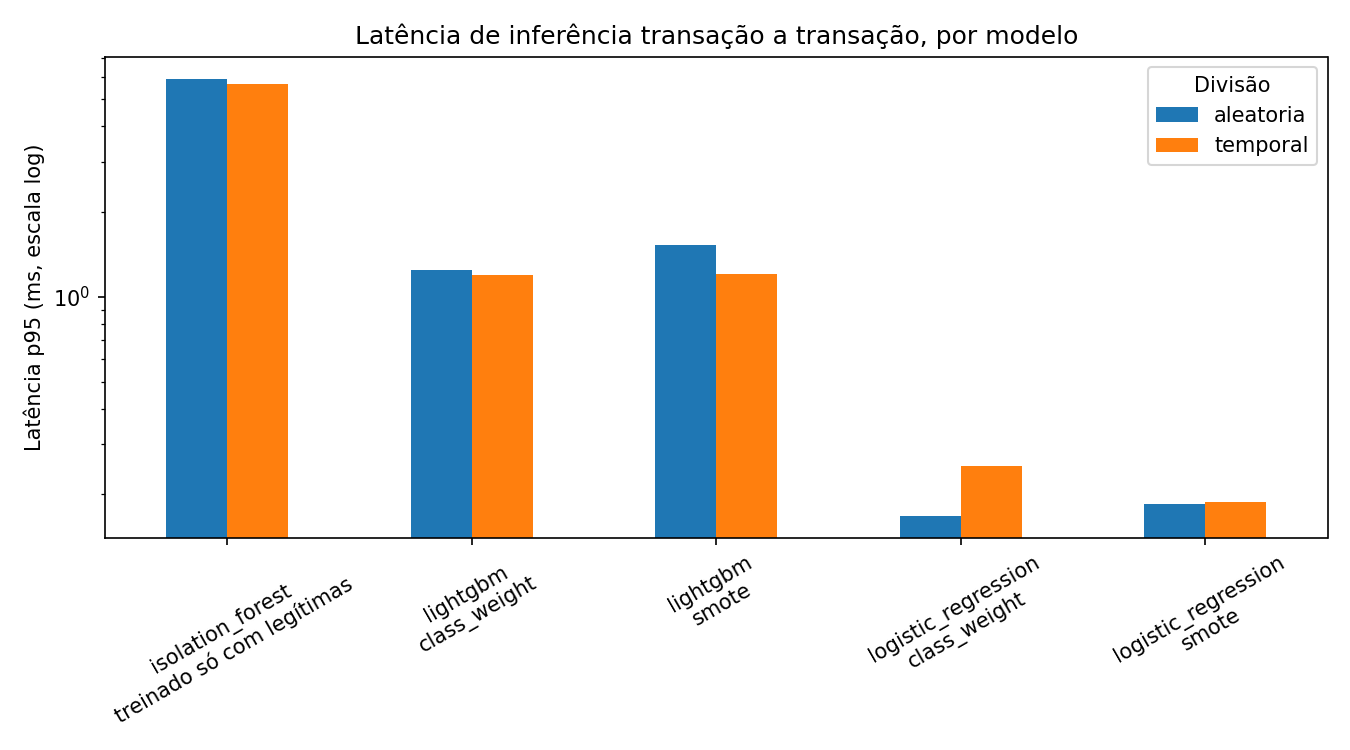
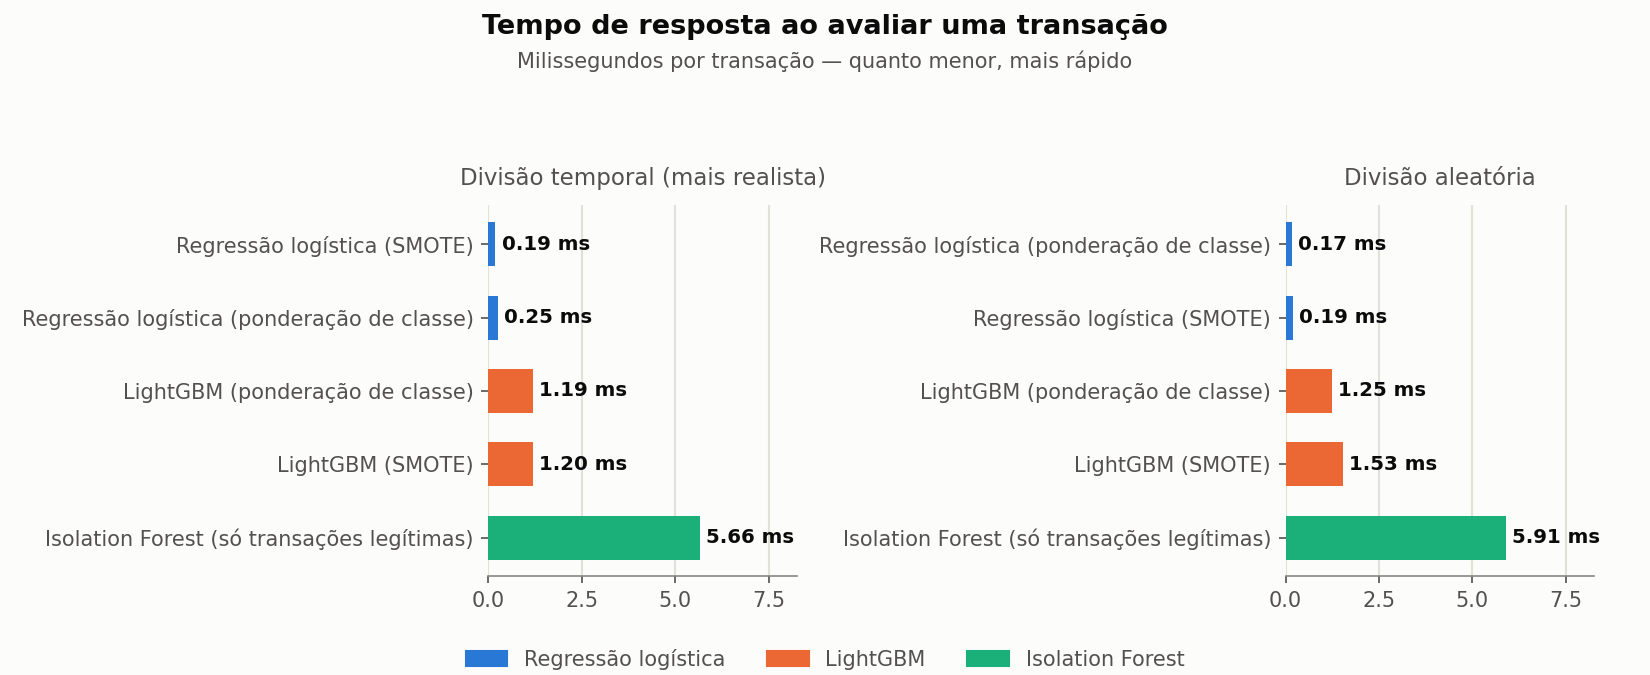
fix: reescreve gráficos do README com barras horizontais ordenadas e valores diretos

diff --git a/src/evaluation/generate_report_charts.py b/src/evaluation/generate_report_charts.py
@@ -2,6 +2,11 @@
 já calculados em results/comparacao_modelos.csv (produzido por
 `python -m src.evaluation.run_comparison`).
 
+As figuras usam barras horizontais ordenadas por valor, com o número
+escrito direto ao lado de cada barra — pensadas para serem entendidas
+em poucos segundos por alguém sem contexto do projeto, não só por
+quem já sabe o que é PR-AUC.
+
 Uso:
     python -m src.evaluation.generate_report_charts
 """
@@ -15,34 +20,137 @@ PROJECT_ROOT = Path(__file__).resolve().parents[2]
 RESULTS_CSV = PROJECT_ROOT / "results" / "comparacao_modelos.csv"
 FIGURES_DIR = PROJECT_ROOT / "results" / "figures"
 
+# cores fixas por modelo (paleta categórica: mesma cor em todo gráfico
+# do projeto, nunca reatribuída por posição ou ranking)
+MODEL_COLORS = {
+    "logistic_regression": "#2a78d6",
+    "lightgbm": "#eb6834",
+    "isolation_forest": "#1baf7a",
+}
+MODEL_LABELS = {
+    "logistic_regression": "Regressão logística",
+    "lightgbm": "LightGBM",
+    "isolation_forest": "Isolation Forest",
+}
+BALANCING_LABELS = {
+    "class_weight": "ponderação de classe",
+    "smote": "SMOTE",
+    "treinado só com legítimas": "só transações legítimas",
+}
+SPLIT_LABELS = {
+    "temporal": "Divisão temporal (mais realista)",
+    "aleatoria": "Divisão aleatória",
+}
+
+INK = "#0b0b0b"
+INK_SECONDARY = "#52514e"
+INK_MUTED = "#898781"
+GRID = "#e1e0d9"
+SURFACE = "#fcfcfb"
+
 
 def _load_results() -> pd.DataFrame:
     df = pd.read_csv(RESULTS_CSV)
-    df["combinacao"] = df["model"] + "\n" + df["balancing"]
+    df["rotulo"] = df["model"].map(MODEL_LABELS) + " (" + df["balancing"].map(BALANCING_LABELS) + ")"
+    df["cor"] = df["model"].map(MODEL_COLORS)
     return df
 
 
+def _style_axis(ax):
+    ax.set_facecolor(SURFACE)
+    ax.spines["top"].set_visible(False)
+    ax.spines["right"].set_visible(False)
+    ax.spines["left"].set_visible(False)
+    ax.spines["bottom"].set_color(INK_MUTED)
+    ax.tick_params(colors=INK_SECONDARY, labelsize=10)
+    ax.xaxis.grid(True, color=GRID, linewidth=1)
+    ax.set_axisbelow(True)
+
+
+def _legend(fig):
+    handles = [plt.Rectangle((0, 0), 1, 1, color=color) for color in MODEL_COLORS.values()]
+    fig.legend(
+        handles,
+        MODEL_LABELS.values(),
+        loc="lower center",
+        ncol=3,
+        frameon=False,
+        bbox_to_anchor=(0.5, -0.02),
+        fontsize=10,
+        labelcolor=INK_SECONDARY,
+    )
+
+
+def _horizontal_bars(ax, split_df, value_col, value_fmt, ascending, xlim=None):
+    split_df = split_df.sort_values(value_col, ascending=ascending)
+    y_pos = range(len(split_df))
+    ax.barh(y_pos, split_df[value_col], color=split_df["cor"], height=0.6)
+    ax.set_yticks(list(y_pos))
+    ax.set_yticklabels(split_df["rotulo"], color=INK, fontsize=10)
+
+    x_max = xlim[1] if xlim else split_df[value_col].max()
+    for y, value in zip(y_pos, split_df[value_col]):
+        ax.text(
+            value + x_max * 0.02,
+            y,
+            value_fmt(value),
+            va="center",
+            ha="left",
+            color=INK,
+            fontsize=9.5,
+            fontweight="bold",
+        )
+    if xlim:
+        ax.set_xlim(*xlim)
+    else:
+        ax.set_xlim(0, x_max * 1.2)
+
+
 def plot_pr_auc(df: pd.DataFrame, output_path: Path):
-    pivot = df.pivot(index="combinacao", columns="split", values="pr_auc")
-    ax = pivot.plot(kind="bar", figsize=(9, 5), rot=30)
-    ax.set_ylabel("PR-AUC")
-    ax.set_xlabel("")
-    ax.set_title("PR-AUC por modelo, estratégia de balanceamento e divisão dos dados")
-    ax.legend(title="Divisão")
-    plt.tight_layout()
-    plt.savefig(output_path, dpi=150)
+    fig, axes = plt.subplots(1, 2, figsize=(11, 4.5), facecolor=SURFACE)
+    fig.suptitle(
+        "Quão bem cada modelo separa fraude de transação legítima",
+        fontsize=13,
+        fontweight="bold",
+        color=INK,
+    )
+    fig.text(0.5, 0.90, "PR-AUC, de 0 a 1 — quanto maior, melhor", ha="center", fontsize=10, color=INK_SECONDARY)
+
+    for ax, (split_key, split_label) in zip(axes, SPLIT_LABELS.items()):
+        split_df = df[df["split"] == split_key]
+        _horizontal_bars(ax, split_df, "pr_auc", lambda v: f"{v:.2f}", ascending=True, xlim=(0, 1.05))
+        ax.set_title(split_label, fontsize=11, color=INK_SECONDARY, pad=10)
+        _style_axis(ax)
+
+    _legend(fig)
+    plt.tight_layout(rect=(0, 0.06, 0.98, 0.86))
+    plt.savefig(output_path, dpi=150, facecolor=SURFACE)
     plt.close()
 
 
 def plot_latency(df: pd.DataFrame, output_path: Path):
-    pivot = df.pivot(index="combinacao", columns="split", values="latency_p95_ms")
-    ax = pivot.plot(kind="bar", figsize=(9, 5), rot=30, logy=True)
-    ax.set_ylabel("Latência p95 (ms, escala log)")
-    ax.set_xlabel("")
-    ax.set_title("Latência de inferência transação a transação, por modelo")
-    ax.legend(title="Divisão")
-    plt.tight_layout()
-    plt.savefig(output_path, dpi=150)
+    fig, axes = plt.subplots(1, 2, figsize=(11, 4.5), facecolor=SURFACE)
+    fig.suptitle(
+        "Tempo de resposta ao avaliar uma transação",
+        fontsize=13,
+        fontweight="bold",
+        color=INK,
+    )
+    fig.text(
+        0.5, 0.90, "Milissegundos por transação — quanto menor, mais rápido", ha="center", fontsize=10, color=INK_SECONDARY
+    )
+
+    shared_xlim = (0, df["latency_p95_ms"].max() * 1.4)
+    for ax, (split_key, split_label) in zip(axes, SPLIT_LABELS.items()):
+        split_df = df[df["split"] == split_key]
+        _horizontal_bars(ax, split_df, "latency_p95_ms", lambda v: f"{v:.2f} ms", ascending=False, xlim=shared_xlim)
+        ax.set_title(split_label, fontsize=11, color=INK_SECONDARY, pad=10)
+        ax.set_xlabel("")
+        _style_axis(ax)
+
+    _legend(fig)
+    plt.tight_layout(rect=(0, 0.06, 0.98, 0.86))
+    plt.savefig(output_path, dpi=150, facecolor=SURFACE)
     plt.close()
 
 
